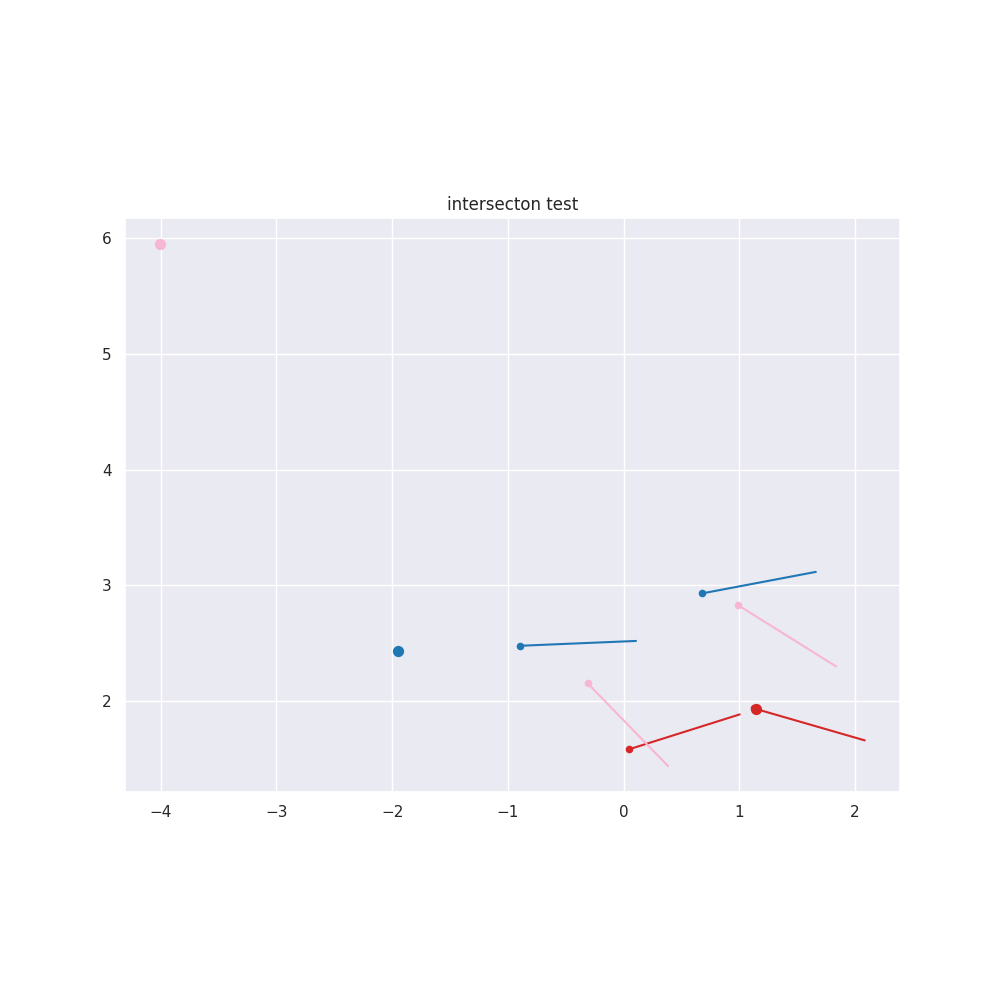
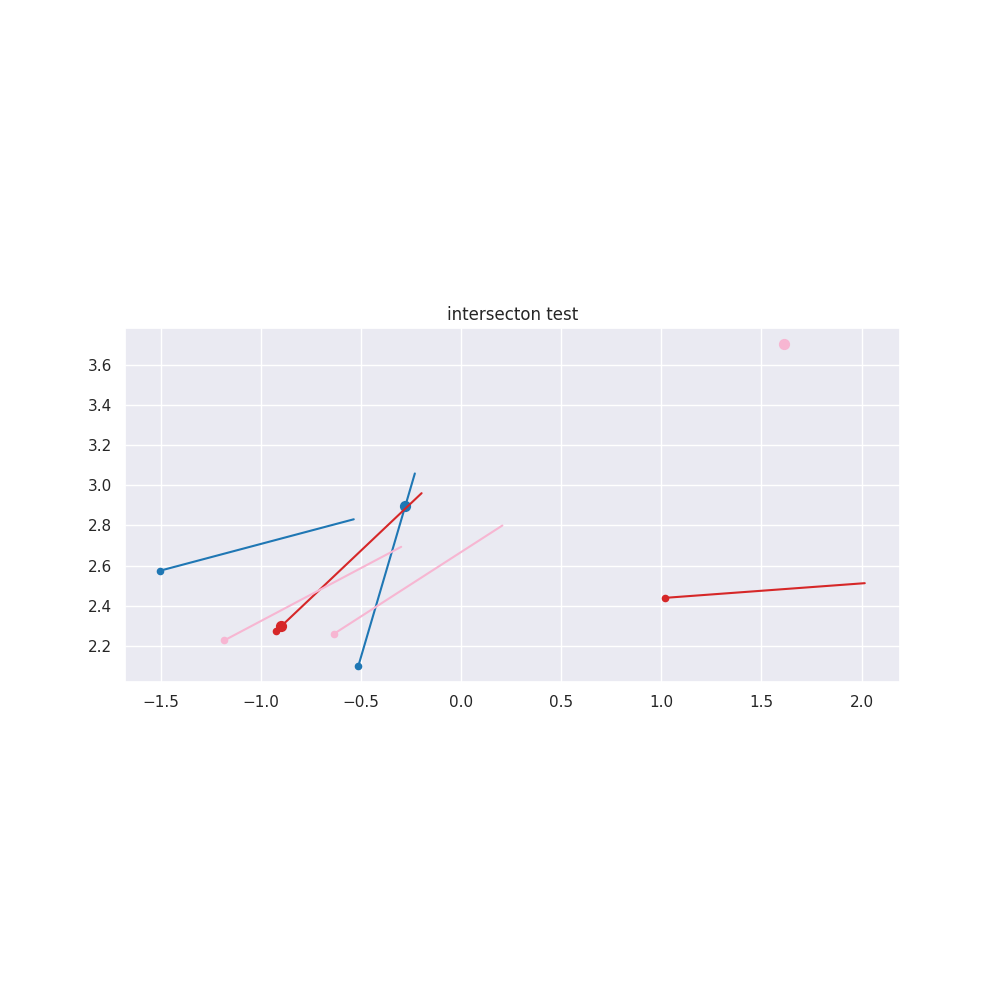
hough transform

diff --git a/cylinder_detection.py b/cylinder_detection.py
@@ -4,6 +4,7 @@ import matplotlib.pyplot as plt
 import matplotlib.patches as patches
 import seaborn as sns
 import time
+from mpl_toolkits.mplot3d import Axes3D
 
 sns.set()
 
@@ -23,6 +24,9 @@ class CylinderDetectior():
         self.points = np.delete(points, obj=1, axis=1)
         normals = np.array(pcd_part.normals)
         self.normals = np.delete(normals, obj=1, axis=1)
+        norms = np.tile(np.linalg.norm(self.normals, axis=1), (2, 1))
+        norms = norms.transpose((1, 0))
+        self.normals /= norms
 
     def intersection(self, points1, points2, normals1, normals2):
         A = np.stack([normals1, -normals2])
@@ -73,45 +77,64 @@ class CylinderDetectior():
         count_body = np.count_nonzero(d < radiuses_tile - diff, axis=1)
         return count_edge, count_body
 
-    def calc_circle(self, num=3):
-        idx1 = np.random.choice(len(self.points), size=num)
-        idx2 = np.random.choice(len(self.points), size=num)
-        centers = self.intersection(
-            self.points[idx1],
-            self.points[idx2],
-            self.normals[idx1],
-            self.normals[idx2])
+    def get_centers(self, r_max=0.3):
+        r = np.arange(-r_max, r_max, 0.01)
+        # normals = np.dot(self.normals, r)
+        # print(normals.shape)
+        # centers1 = self.points + self.normals
+        # centers2 = self.points - self.normals
+        centers = []
+        for i in r:
+            new_centers = self.points + i * self.normals
+            centers.append(new_centers)
+        centers = np.array(centers).reshape(-1, 2)
+        return centers
 
-        r1 = self.distance(centers, self.points[idx1])
-        r2 = self.distance(centers, self.points[idx2])
-        radiuses = (r1 + r2) / 2
+    def calc_circle(self, num):
+        # idx1 = np.random.choice(len(self.points), size=num)
+        # idx2 = np.random.choice(len(self.points), size=num)
+        # idx1 = list(range(len(self.points))) * len(self.points)
+        # idx2 = np.repeat(range(len(self.points)), len(self.points))
+        # print(idx1)
+        # print(idx2)
+        # centers = self.intersection(
+        #     self.points[idx1],
+        #     self.points[idx2],
+        #     self.normals[idx1],
+        #     self.normals[idx2])
+        centers = self.get_centers()
 
-        ans_idx = (radiuses < 0.5) & (np.abs(r1 - r2) < 0.5)
-        centers, radiuses = centers[ans_idx], radiuses[ans_idx]
+        # r1 = self.distance(centers, self.points[idx1])
+        # r2 = self.distance(centers, self.points[idx2])
+        # radiuses = (r1 + r2) / 2
 
-        count_edge, count_body = self.count_circle_point_num(centers, radiuses)
-        ans_idx = (count_edge > 40) & (count_body < 20)
-        return centers[ans_idx], radiuses[ans_idx]
+        # ans_idx = (radiuses < 0.5) & (np.abs(r1 - r2) < 0.5)
+        # print(ans_idx)
+        # centers, radiuses = centers[ans_idx], radiuses[ans_idx]
 
-    def plot_result(self, ax, centers, radiuses):
+        # count_edge, count_body = self.count_circle_point_num(centers, radiuses)
+        # ans_idx = (count_edge > 40) & (count_body < 20)
+        # return centers[ans_idx], radiuses[ans_idx]
+        return centers, np.zeros_like(centers)
+
+    def plot_result(self, ax, centers, radiuses, circle=False):
         ax.scatter(self.points[:, 0], self.points[:, 1],
                    alpha=0.2, color='tab:blue')
-        ax.scatter(centers[:, 0], centers[:, 1], alpha=0.4, color='tab:red')
-        for center, radius in zip(centers, radiuses):
-            c = patches.Circle(
-                xy=center,
-                radius=radius,
-                ec='tab:red',
-                fill=False,
-                alpha=0.2,
-                color='tab:orange')
-            ax.add_patch(c)
+        ax.scatter(centers[:, 0], centers[:, 1], alpha=0.005, color='tab:red')
+        if circle:
+            for center, radius in zip(centers, radiuses):
+                c = patches.Circle(
+                    xy=center,
+                    radius=radius,
+                    ec='tab:red',
+                    fill=False,
+                    alpha=0.2,
+                    color='tab:orange')
+                ax.add_patch(c)
         ax.set_aspect('equal')
 
 
 def main():
-    start_time = time.time()
-
     color_raw = o3d.io.read_image('images/color/color16087244608437330.png')
     depth_raw = o3d.io.read_image('images/depth/depth16087244608437330.png')
     rgbd_image = o3d.geometry.RGBDImage.create_from_color_and_depth(
@@ -121,8 +144,10 @@ def main():
         o3d.camera.PinholeCameraIntrinsic(
             o3d.camera.PinholeCameraIntrinsicParameters.PrimeSenseDefault))
 
+    start_time = time.time()
+
     cylinderDetectior = CylinderDetectior(pcd)
-    cylinderDetectior.test_intersection()
+    # cylinderDetectior.test_intersection()
     centers, radiuses = cylinderDetectior.calc_circle(num=10000)
 
     end_time = time.time()
@@ -142,6 +167,16 @@ def main():
     ax.set_title('result')
     cylinderDetectior.plot_result(ax, centers, radiuses)
     fig.savefig('result.png')
+
+    hist, xedges, yedges = np.histogram2d(
+        centers[:, 0], centers[:, 1], bins=100)
+    hist[hist < np.max(hist) * 0.6] = 0
+
+    plt.clf()
+    plt.imshow(hist.T, origin='lower')
+    plt.grid(False)
+    fig.savefig('heatmap.png')
+    # plt.show()
 
 
 if __name__ == '__main__':
